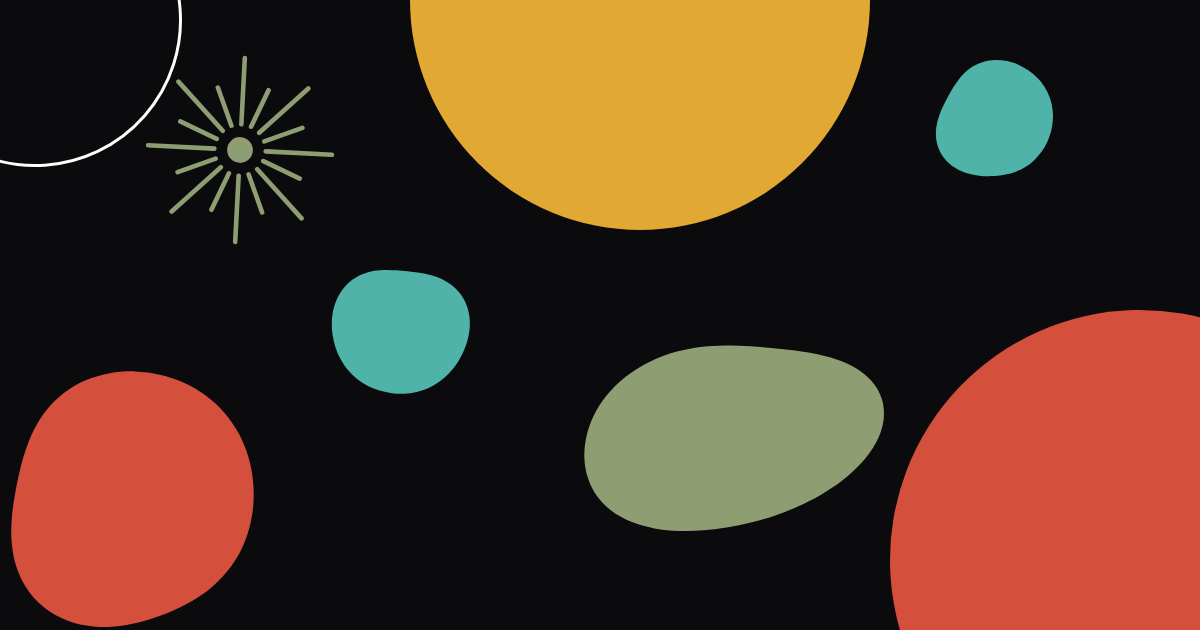
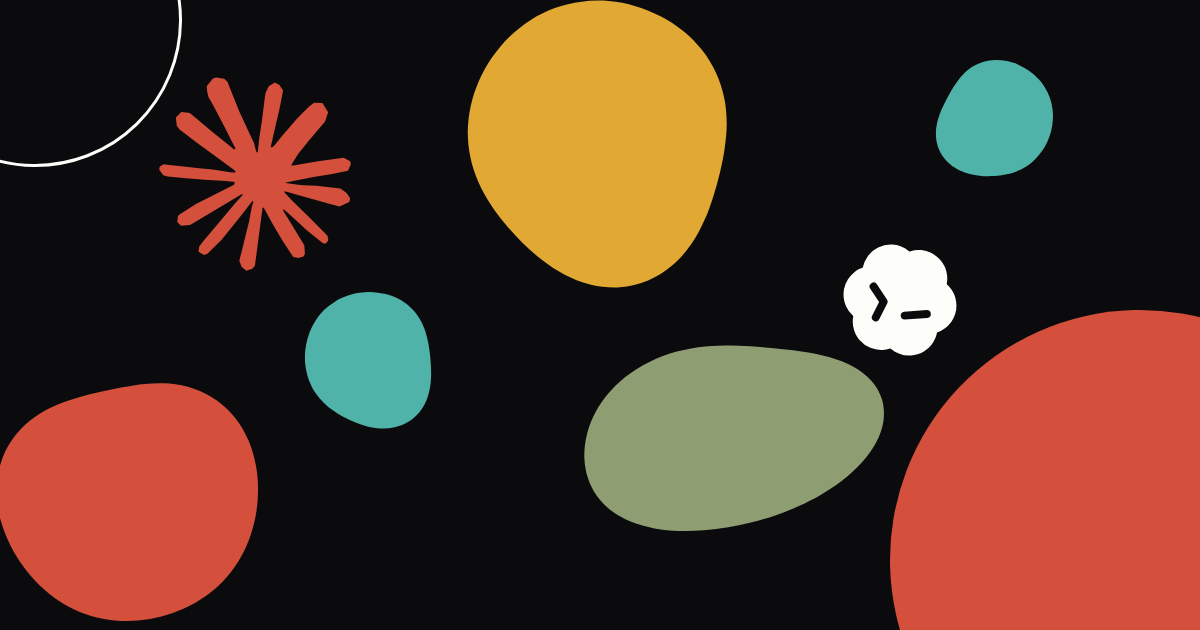
og: redraw preview cards, terracotta theme colour (#7)
* og: redraw preview cards to match the current hero

The cards still showed the old half-dome and starburst. They now draw the
mustard bubble, the Claude spark, and the Codex cloud, like the hero does.
Mirrored cards flip the marks back so they read the right way round.

* og: add a bright ground along the bottom of the cards

iMessage tints the caption bar under a link preview from the image, and
the near-black cards gave it a dull bar. A palette-coloured ground for the
shapes to set behind gives it a colour to pick up.

* Revert "og: add a bright ground along the bottom of the cards"

This reverts commit d9d7bdb4a322102bac3c4c21d9a6655bbc59502f.

* meta: make the theme colour terracotta

It was the page's near-black, so the bar iMessage draws under a link
preview (and the mobile browser toolbar) came out dark and muddy.

diff --git a/tools/og/card.html b/tools/og/card.html
@@ -36,17 +36,27 @@
       return `${d}Z`;
     };
 
-    // Fills rotate through the palette by `hue`; the ring stays white.
+    // The Claude spark and the Codex cloud (with its cursor), as 24×24
+    // artwork centred on 12,12.
+    const LOGO = {
+      claude: 'M' + '4.709,15.955 9.429,13.308 9.509,13.078 9.429,12.95 9.2,12.95 8.41,12.902 5.712,12.829 3.373,12.732 1.107,12.61 .536,12.489 0,11.784 .055,11.432 .535,11.111 1.221,11.171 2.741,11.274 5.019,11.432 6.671,11.529 9.12,11.784 9.509,11.784 9.564,11.627 9.43,11.529 9.327,11.432 6.969,9.836 4.417,8.148 3.081,7.176 2.357,6.685 1.993,6.223 1.835,5.215 2.491,4.493 3.372,4.553 3.597,4.614 4.49,5.3 6.398,6.776 8.889,8.609 9.254,8.913 9.399,8.81 9.418,8.737 9.254,8.463 7.899,6.017 6.453,3.527 5.809,2.495 5.639,1.876 5.535,1.147 6.283,.134 6.696,0 7.692,.134 8.112,.498 8.732,1.912 9.734,4.141 11.289,7.171 11.745,8.069 11.988,8.901 12.079,9.156 12.237,9.156 12.237,9.01 12.365,7.304 12.602,5.209 12.832,2.514 12.912,1.754 13.288,.844 14.035,.352 14.619,.632 15.099,1.317 15.032,1.761 14.746,3.612 14.187,6.515 13.823,8.457 14.035,8.457 14.278,8.215 15.263,6.909 16.915,4.845 17.645,4.025 18.495,3.121 19.042,2.69 20.075,2.69 20.835,3.819 20.495,4.985 19.431,6.332 18.55,7.474 17.286,9.174 16.496,10.534 16.569,10.644 16.757,10.624 19.613,10.018 21.156,9.738 22.997,9.423 23.83,9.811 23.921,10.206 23.593,11.013 21.624,11.499 19.315,11.961 15.876,12.774 15.834,12.804 15.883,12.865 17.432,13.011 18.094,13.047 19.716,13.047 22.736,13.272 23.526,13.794 24,14.432 23.921,14.917 22.706,15.537 21.066,15.148 17.237,14.238 15.925,13.909 15.743,13.909 15.743,14.019 16.836,15.087 18.842,16.897 21.351,19.227 21.478,19.805 21.156,20.26 20.816,20.211 18.611,18.554 17.76,17.807 15.834,16.187 15.706,16.187 15.706,16.357 16.15,17.006 18.495,20.527 18.617,21.607 18.447,21.96 17.839,22.173 17.171,22.051 15.797,20.126 14.382,17.959 13.239,16.016 13.099,16.096 12.425,23.35 12.109,23.72 11.38,24 10.773,23.539 10.451,22.792 10.773,21.316 11.162,19.392 11.477,17.862 11.763,15.962 11.933,15.33 11.921,15.288 11.781,15.306 10.347,17.273 8.167,20.218 6.441,22.063 6.027,22.227 5.31,21.857 5.377,21.195 5.778,20.606 8.166,17.57 9.606,15.688 10.536,14.602 10.53,14.444 10.475,14.444 4.132,18.56 3.002,18.706 2.515,18.25 2.576,17.504 2.807,17.261 4.715,15.949 4.709,15.955'.split(' ').join('L') + 'Z',
+      codex: 'M8.086.457a6.105 6.105 0 013.046-.415c1.333.153 2.521.72 3.564 1.7a.117.117 0 00.107.029c1.408-.346 2.762-.224 4.061.366l.063.03.154.076c1.357.703 2.33 1.77 2.918 3.198.278.679.418 1.388.421 2.126a5.655 5.655 0 01-.18 1.631.167.167 0 00.04.155 5.982 5.982 0 011.578 2.891c.385 1.901-.01 3.615-1.183 5.14l-.182.22a6.063 6.063 0 01-2.934 1.851.162.162 0 00-.108.102c-.255.736-.511 1.364-.987 1.992-1.199 1.582-2.962 2.462-4.948 2.451-1.583-.008-2.986-.587-4.21-1.736a.145.145 0 00-.14-.032c-.518.167-1.04.191-1.604.185a5.924 5.924 0 01-2.595-.622 6.058 6.058 0 01-2.146-1.781c-.203-.269-.404-.522-.551-.821a7.74 7.74 0 01-.495-1.283 6.11 6.11 0 01-.017-3.064.166.166 0 00.008-.074.115.115 0 00-.037-.064 5.958 5.958 0 01-1.38-2.202 5.196 5.196 0 01-.333-1.589 6.915 6.915 0 01.188-2.132c.45-1.484 1.309-2.648 2.577-3.493.282-.188.55-.334.802-.438.286-.12.573-.22.861-.304a.129.129 0 00.087-.087A6.016 6.016 0 015.635 2.31C6.315 1.464 7.132.846 8.086.457zm-.804 7.85a.848.848 0 00-1.473.842l1.694 2.965-1.688 2.848a.849.849 0 001.46.864l1.94-3.272a.849.849 0 00.007-.854l-1.94-3.393z' +
+        'M12.728 14.547a.849.849 0 000 1.695h4.848a.849.849 0 000-1.696h-4.848z',
+    };
+
+    // Fills rotate through the palette by `hue`; the marks keep their own
+    // colours (terracotta spark, white cloud and ring).
     const FILLS = ['var(--terracotta)', 'var(--mustard)', 'var(--sage)', 'var(--teal)'];
     const fill = (i) => FILLS[(i + hue) % FILLS.length];
     // x, y, r in card pixels; `c` indexes FILLS. Edge shapes run off the card.
     const SHAPES = [
       { kind: 'sun', x: 60, y: 560, r: 250, c: 0 },
       { kind: 'kidney', x: 470, y: 440, r: 100, c: 2, rot: 12 },
-      { kind: 'half', x: 560, y: 0, r: 230, c: 1, rot: 180 },
+      { kind: 'pebble', x: 600, y: 140, r: 135, c: 1 },
       { kind: 'pebble', x: 205, y: 120, r: 58, c: 3 },
-      { kind: 'pebble', x: 800, y: 330, r: 66, c: 3 },
-      { kind: 'burst', x: 960, y: 150, r: 92, c: 2 },
+      { kind: 'codex', x: 300, y: 300, r: 56 },
+      { kind: 'pebble', x: 830, y: 360, r: 66, c: 3 },
+      { kind: 'claude', x: 945, y: 175, r: 96 },
       { kind: 'pebble', x: 1070, y: 500, r: 125, c: 0 },
       { kind: 'ring', x: 1165, y: 20, r: 150 },
     ];
@@ -56,17 +66,11 @@
       const R = spec.r;
       switch (spec.kind) {
         case 'sun': return `<circle r="${R}" fill="${color}"/>`;
-        case 'half': return `<path d="M${-R},0A${R},${R} 0 0 1 ${R},0Z" fill="${color}"/>`;
         case 'ring': return `<circle r="${R * 0.97}" fill="none" stroke="var(--fg)" stroke-width="3"/>`;
-        case 'burst': {
-          let d = '';
-          for (let i = 0; i < 16; i++) {
-            const a = (i / 16) * Math.PI * 2, r0 = R * 0.28, r1 = i % 2 ? R * 0.72 : R;
-            d += `M${(Math.cos(a) * r0).toFixed(1)},${(Math.sin(a) * r0).toFixed(1)}L${(Math.cos(a) * r1).toFixed(1)},${(Math.sin(a) * r1).toFixed(1)}`;
-          }
-          return `<path d="${d}" fill="none" stroke="${color}" stroke-width="${R * 0.05}" stroke-linecap="round"/>` +
-            `<circle r="${R * 0.14}" fill="${color}"/>`;
-        }
+        case 'claude':
+        case 'codex':
+          return `<path d="${LOGO[spec.kind]}" transform="scale(${(R / 12).toFixed(3)}) translate(-12 -12)" ` +
+            `fill="${spec.kind === 'claude' ? 'var(--terracotta)' : 'var(--fg)'}" fill-rule="${spec.kind === 'codex' ? 'evenodd' : 'nonzero'}"/>`;
         default: { // pebble, kidney
           const stretch = spec.kind === 'kidney' ? 1.45 : 1;
           const pts = [];
@@ -84,8 +88,10 @@
 
     const shapes = SHAPES.map((spec, n) => {
       const seed = n * 1.93 + 0.4 + hue;
-      const angle = spec.kind === 'burst' ? seed * 40 : (spec.rot || 0) + (spec.kind === 'half' ? 0 : Math.sin(seed) * 4);
-      return `<g transform="translate(${spec.x} ${spec.y}) rotate(${angle.toFixed(2)})">${shapeSVG(spec, fill(spec.c ?? 0), seed)}</g>`;
+      const angle = (spec.rot || 0) + Math.sin(seed) * 4;
+      // Mirrored cards flip the marks back, so they still read the right way round.
+      const flip = mirror && (spec.kind === 'claude' || spec.kind === 'codex') ? ' scale(-1 1)' : '';
+      return `<g transform="translate(${spec.x} ${spec.y}) rotate(${angle.toFixed(2)})${flip}">${shapeSVG(spec, fill(spec.c ?? 0), seed)}</g>`;
     }).join('');
     document.getElementById('shapes').innerHTML = mirror ? `<g transform="translate(1200 0) scale(-1 1)">${shapes}</g>` : shapes;
     document.title = 'ready';

diff --git a/blog/vinetech.html b/blog/vinetech.html
@@ -6,7 +6,7 @@
   <title>Senior Capstone Project · Trey Moen</title>
   <meta name="description" content="Autonomous driving, machine learning, and more.">
   <meta name="author" content="Trey Moen">
-  <meta name="theme-color" content="#0b0b0d">
+  <meta name="theme-color" content="#d4503c">
   <link rel="canonical" href="https://moen.ai/blog/vinetech">
 
   <meta property="og:site_name" content="Trey Moen">
@@ -19,7 +19,7 @@
   <meta property="og:image:type" content="image/png">
   <meta property="og:image:width" content="1200">
   <meta property="og:image:height" content="630">
-  <meta property="og:image:alt" content="Mid-century shapes in terracotta, mustard, sage, and teal">
+  <meta property="og:image:alt" content="Mid-century shapes in terracotta, mustard, sage, and teal, with the Claude spark and the Codex cloud">
   <meta property="article:published_time" content="2022-06-03">
   <meta property="article:modified_time" content="2022-07-08">
   <meta property="article:author" content="https://moen.ai/">
@@ -27,7 +27,7 @@
   <meta name="twitter:title" content="Senior Capstone Project">
   <meta name="twitter:description" content="Autonomous driving, machine learning, and more.">
   <meta name="twitter:image" content="https://moen.ai/og/vinetech.png">
-  <meta name="twitter:image:alt" content="Mid-century shapes in terracotta, mustard, sage, and teal">
+  <meta name="twitter:image:alt" content="Mid-century shapes in terracotta, mustard, sage, and teal, with the Claude spark and the Codex cloud">
 
   <link rel="icon" href="../favicon.ico" sizes="any">
   <link rel="icon" type="image/png" sizes="32x32" href="../favicon-32x32.png">

diff --git a/blog/articles.html b/blog/articles.html
@@ -6,7 +6,7 @@
   <title>Articles · Trey Moen</title>
   <meta name="description" content="A collection of articles that have influenced my thinking.">
   <meta name="author" content="Trey Moen">
-  <meta name="theme-color" content="#0b0b0d">
+  <meta name="theme-color" content="#d4503c">
   <link rel="canonical" href="https://moen.ai/blog/articles">
 
   <meta property="og:site_name" content="Trey Moen">
@@ -19,7 +19,7 @@
   <meta property="og:image:type" content="image/png">
   <meta property="og:image:width" content="1200">
   <meta property="og:image:height" content="630">
-  <meta property="og:image:alt" content="Mid-century shapes in terracotta, mustard, sage, and teal">
+  <meta property="og:image:alt" content="Mid-century shapes in terracotta, mustard, sage, and teal, with the Claude spark and the Codex cloud">
   <meta property="article:published_time" content="2021-07-14">
   <meta property="article:modified_time" content="2022-02-08">
   <meta property="article:author" content="https://moen.ai/">
@@ -27,7 +27,7 @@
   <meta name="twitter:title" content="Articles">
   <meta name="twitter:description" content="A collection of articles that have influenced my thinking.">
   <meta name="twitter:image" content="https://moen.ai/og/articles.png">
-  <meta name="twitter:image:alt" content="Mid-century shapes in terracotta, mustard, sage, and teal">
+  <meta name="twitter:image:alt" content="Mid-century shapes in terracotta, mustard, sage, and teal, with the Claude spark and the Codex cloud">
 
   <link rel="icon" href="../favicon.ico" sizes="any">
   <link rel="icon" type="image/png" sizes="32x32" href="../favicon-32x32.png">

diff --git a/blog/projects.html b/blog/projects.html
@@ -6,7 +6,7 @@
   <title>Projects · Trey Moen</title>
   <meta name="description" content="A few of the projects I have worked on.">
   <meta name="author" content="Trey Moen">
-  <meta name="theme-color" content="#0b0b0d">
+  <meta name="theme-color" content="#d4503c">
   <link rel="canonical" href="https://moen.ai/blog/projects">
 
   <meta property="og:site_name" content="Trey Moen">
@@ -19,7 +19,7 @@
   <meta property="og:image:type" content="image/png">
   <meta property="og:image:width" content="1200">
   <meta property="og:image:height" content="630">
-  <meta property="og:image:alt" content="Mid-century shapes in terracotta, mustard, sage, and teal">
+  <meta property="og:image:alt" content="Mid-century shapes in terracotta, mustard, sage, and teal, with the Claude spark and the Codex cloud">
   <meta property="article:published_time" content="2021-07-13">
   <meta property="article:modified_time" content="2022-07-08">
   <meta property="article:author" content="https://moen.ai/">
@@ -27,7 +27,7 @@
   <meta name="twitter:title" content="Projects">
   <meta name="twitter:description" content="A few of the projects I have worked on.">
   <meta name="twitter:image" content="https://moen.ai/og/projects.png">
-  <meta name="twitter:image:alt" content="Mid-century shapes in terracotta, mustard, sage, and teal">
+  <meta name="twitter:image:alt" content="Mid-century shapes in terracotta, mustard, sage, and teal, with the Claude spark and the Codex cloud">
 
   <link rel="icon" href="../favicon.ico" sizes="any">
   <link rel="icon" type="image/png" sizes="32x32" href="../favicon-32x32.png">

diff --git a/blog/index.html b/blog/index.html
@@ -6,7 +6,7 @@
   <title>Blog · Trey Moen</title>
   <meta name="description" content="A senior capstone on autonomous driving and machine learning, articles that shaped my thinking, and projects.">
   <meta name="author" content="Trey Moen">
-  <meta name="theme-color" content="#0b0b0d">
+  <meta name="theme-color" content="#d4503c">
   <link rel="canonical" href="https://moen.ai/blog">
 
   <meta property="og:site_name" content="Trey Moen">
@@ -19,12 +19,12 @@
   <meta property="og:image:type" content="image/png">
   <meta property="og:image:width" content="1200">
   <meta property="og:image:height" content="630">
-  <meta property="og:image:alt" content="Mid-century shapes in terracotta, mustard, sage, and teal">
+  <meta property="og:image:alt" content="Mid-century shapes in terracotta, mustard, sage, and teal, with the Claude spark and the Codex cloud">
   <meta name="twitter:card" content="summary_large_image">
   <meta name="twitter:title" content="Blog">
   <meta name="twitter:description" content="A senior capstone on autonomous driving and machine learning, articles that shaped my thinking, and projects.">
   <meta name="twitter:image" content="https://moen.ai/og/blog.png">
-  <meta name="twitter:image:alt" content="Mid-century shapes in terracotta, mustard, sage, and teal">
+  <meta name="twitter:image:alt" content="Mid-century shapes in terracotta, mustard, sage, and teal, with the Claude spark and the Codex cloud">
 
   <link rel="icon" href="../favicon.ico" sizes="any">
   <link rel="icon" type="image/png" sizes="32x32" href="../favicon-32x32.png">

diff --git a/index.html b/index.html
@@ -6,7 +6,7 @@
   <title>Trey Moen · Professional Maker</title>
   <meta name="description" content="Projects, writing, and how to get in touch.">
   <meta name="author" content="Trey Moen">
-  <meta name="theme-color" content="#0b0b0d">
+  <meta name="theme-color" content="#d4503c">
   <link rel="canonical" href="https://moen.ai/">
 
   <meta property="og:locale" content="en_US">
@@ -18,12 +18,12 @@
   <meta property="og:image:type" content="image/png">
   <meta property="og:image:width" content="1200">
   <meta property="og:image:height" content="630">
-  <meta property="og:image:alt" content="Mid-century shapes in terracotta, mustard, sage, and teal">
+  <meta property="og:image:alt" content="Mid-century shapes in terracotta, mustard, sage, and teal, with the Claude spark and the Codex cloud">
   <meta name="twitter:card" content="summary_large_image">
   <meta name="twitter:title" content="Trey Moen">
   <meta name="twitter:description" content="Projects, writing, and how to get in touch.">
   <meta name="twitter:image" content="https://moen.ai/og/home.png">
-  <meta name="twitter:image:alt" content="Mid-century shapes in terracotta, mustard, sage, and teal">
+  <meta name="twitter:image:alt" content="Mid-century shapes in terracotta, mustard, sage, and teal, with the Claude spark and the Codex cloud">
 
   <link rel="icon" href="favicon.ico" sizes="any">
   <link rel="icon" type="image/png" sizes="32x32" href="favicon-32x32.png">

diff --git a/404.html b/404.html
@@ -5,7 +5,7 @@
   <meta name="viewport" content="width=device-width, initial-scale=1, viewport-fit=cover">
   <title>Not found · Trey Moen</title>
   <meta name="robots" content="noindex">
-  <meta name="theme-color" content="#0b0b0d">
+  <meta name="theme-color" content="#d4503c">
 
   <link rel="icon" href="/favicon.ico" sizes="any">
   <link rel="icon" type="image/png" sizes="32x32" href="/favicon-32x32.png">
